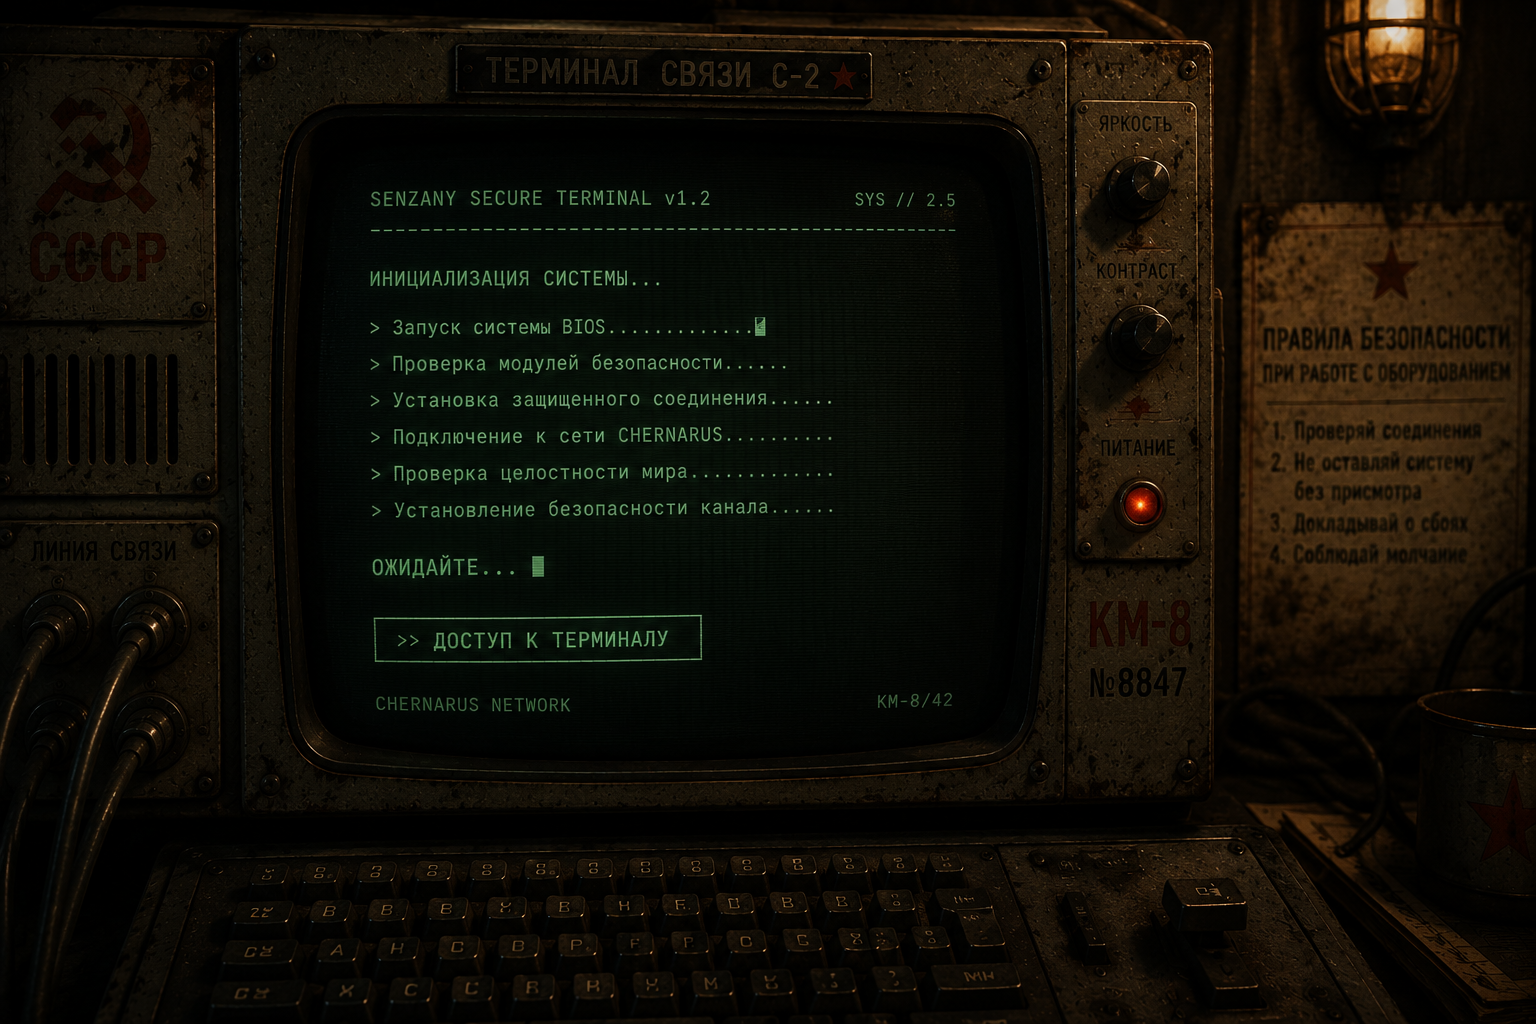
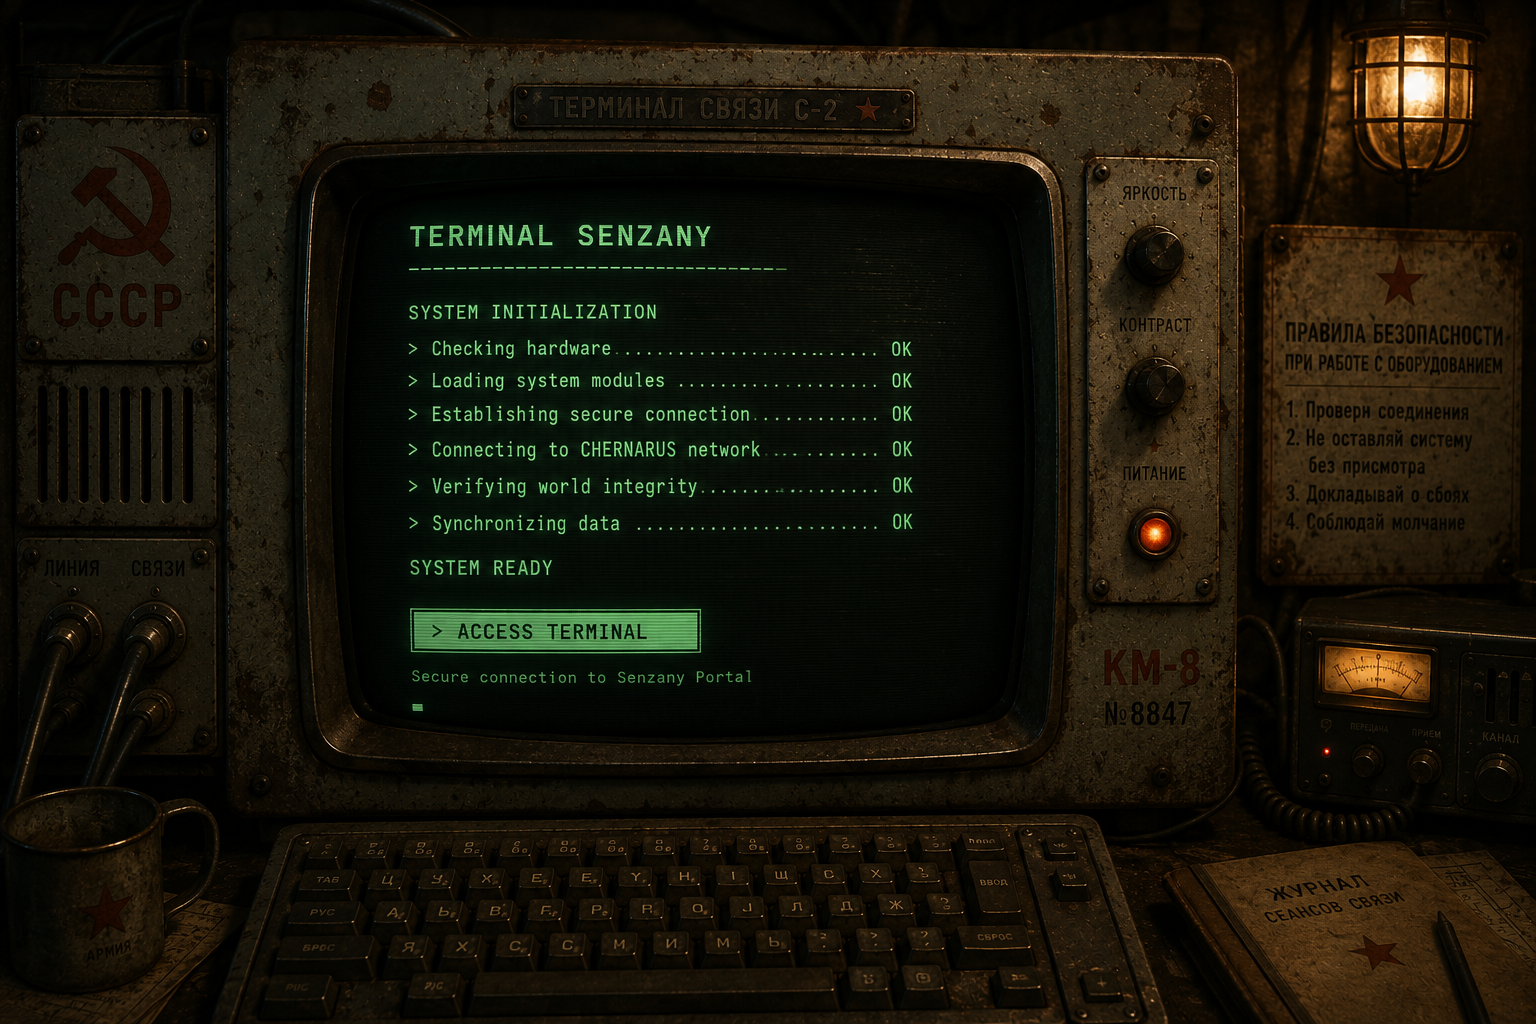
nouvelle page

diff --git a/assets/js/shared/entry-terminal.js b/assets/js/shared/entry-terminal.js
@@ -38,16 +38,16 @@
 
         <div class="entry-terminal__screen-content">
           <header class="entry-terminal__screen-header">
-            <span id="entry-terminal-title">ТЕРМИНАЛ СВЯЗИ СЕНЗАНИ</span>
-            <span>КМ-8 / 42</span>
+            <span id="entry-terminal-title">TERMINAL SENZANY</span>
+            <span>POSTE KM-8 / 42</span>
           </header>
 
-          <p class="entry-terminal__designation">СЕКРЕТНО // ЛИНИЯ ЧЕРНАРУС</p>
+          <p class="entry-terminal__designation">RÉSEAU SÉCURISÉ // LIGNE CHERNARUS</p>
           <div class="entry-terminal__log" aria-live="polite"></div>
 
           <div class="entry-terminal__ready" hidden>
             <p class="entry-terminal__ready-label">
-              <span>СИСТЕМА ГОТОВА</span>
+              <span>SYSTÈME PRÊT</span>
               <i class="entry-terminal__cursor" aria-hidden="true"></i>
             </p>
             <button class="entry-terminal__button" type="button">
@@ -59,14 +59,14 @@
           </div>
 
           <footer class="entry-terminal__screen-footer">
-            <span>СЕТЬ: CHERNARUS</span>
+            <span>RÉSEAU : CHERNARUS</span>
             <span class="entry-terminal__clock">--:--:--</span>
           </footer>
         </div>
 
         <div class="entry-terminal__grant" aria-hidden="true">
-          <span>ДОСТУП РАЗРЕШЕН</span>
-          <small>ACCÈS AUTORISÉ</small>
+          <span>ACCÈS AUTORISÉ</span>
+          <small>BIENVENUE SUR SENZANY</small>
         </div>
       </div>
     </div>`;
@@ -81,11 +81,12 @@
   const clock = terminal.querySelector('.entry-terminal__clock');
 
   const lines = [
-    { ru: 'ПОДАЧА ПИТАНИЯ', fr: 'ALIMENTATION PRINCIPALE' },
-    { ru: 'ПРОВЕРКА ЛАМПОВЫХ МОДУЛЕЙ', fr: 'CONTRÔLE DES MODULES' },
-    { ru: 'НАСТРОЙКА ЧАСТОТЫ 42.7', fr: 'RÉGLAGE DE LA FRÉQUENCE' },
-    { ru: 'СОЕДИНЕНИЕ С СЕТЬЮ CHERNARUS', fr: 'CONNEXION AU RÉSEAU' },
-    { ru: 'ПРОВЕРКА КАНАЛА БЕЗОПАСНОСТИ', fr: 'VÉRIFICATION DU CANAL' }
+    'MISE SOUS TENSION DU TERMINAL',
+    'CONTRÔLE DES MODULES SYSTÈME',
+    'ÉTABLISSEMENT DE LA LIAISON SÉCURISÉE',
+    'CONNEXION AU RÉSEAU CHERNARUS',
+    'VÉRIFICATION DE L’INTÉGRITÉ DU MONDE',
+    'SYNCHRONISATION DES DONNÉES SENZANY'
   ];
 
   const wait = (duration) => new Promise((resolve) => window.setTimeout(resolve, duration));
@@ -100,15 +101,15 @@
     });
   };
 
-  const typeText = async (element, text, speed = 34) => {
+  const typeText = async (element, text, speed = 18) => {
     for (const character of text) {
       element.textContent += character;
-      const naturalPause = character === ' ' ? 18 : Math.floor(Math.random() * 22);
+      const naturalPause = character === ' ' ? 8 : Math.floor(Math.random() * 10);
       await wait(speed + naturalPause);
     }
   };
 
-  const addLine = async ({ ru, fr }) => {
+  const addLine = async (textValue) => {
     const line = document.createElement('div');
     line.className = 'entry-terminal__line';
     line.innerHTML = `
@@ -116,36 +117,32 @@
         <span class="entry-terminal__prompt">&gt;</span>
         <span class="entry-terminal__typed"></span>
         <span class="entry-terminal__working">...</span>
-        <strong class="entry-terminal__ok">ГОТОВО</strong>
-      </div>
-      <small class="entry-terminal__translation"></small>`;
+        <strong class="entry-terminal__ok">OK</strong>
+      </div>`;
 
     log.appendChild(line);
 
     const typed = line.querySelector('.entry-terminal__typed');
     const working = line.querySelector('.entry-terminal__working');
     const ok = line.querySelector('.entry-terminal__ok');
-    const translation = line.querySelector('.entry-terminal__translation');
 
-    await typeText(typed, ru, 31);
+    await typeText(typed, textValue, 18);
     working.classList.add('is-active');
-    await wait(430 + Math.floor(Math.random() * 260));
+    await wait(240 + Math.floor(Math.random() * 150));
     working.classList.remove('is-active');
     working.hidden = true;
     ok.classList.add('is-visible');
-    translation.textContent = fr;
-    translation.classList.add('is-visible');
-    await wait(380);
+    await wait(210);
   };
 
   const run = async () => {
-    await wait(1050);
+    await wait(780);
 
     for (const line of lines) {
       await addLine(line);
     }
 
-    await wait(650);
+    await wait(420);
     ready.hidden = false;
     window.setTimeout(() => button.focus({ preventScroll: true }), 320);
   };

diff --git a/assets/css/shared/entry-terminal.css b/assets/css/shared/entry-terminal.css
@@ -76,10 +76,10 @@ html.senzany-terminal-active body {
 .entry-terminal__screen-wrap {
   position: absolute;
   z-index: 5;
-  left: 18.55%;
-  top: 13.2%;
-  width: 49.3%;
-  height: 63.3%;
+  left: 20.25%;
+  top: 15.15%;
+  width: 47.35%;
+  height: 59.15%;
   overflow: hidden;
   border-radius: 9% / 7%;
   transform: perspective(1100px) rotateY(-0.2deg);
@@ -127,7 +127,7 @@ html.senzany-terminal-active body {
   z-index: 2;
   display: flex;
   flex-direction: column;
-  padding: 7.3% 9% 6%;
+  padding: 7.2% 8.2% 5.2%;
   text-shadow: 0 0 7px rgba(131,185,130,.28);
 }
 
@@ -138,22 +138,22 @@ html.senzany-terminal-active body {
   padding-bottom: 2.2%;
   border-bottom: 1px dashed rgba(131,185,130,.34);
   color: var(--entry-phosphor-bright);
-  font-size: clamp(7px, 1.14vw, 17px);
-  letter-spacing: .08em;
+  font-size: clamp(8px, 1.35vw, 20px);
+  letter-spacing: .12em;
   white-space: nowrap;
 }
 
 .entry-terminal__designation {
-  margin: 4.5% 0 3.6%;
+  margin: 3.8% 0 3.2%;
   color: rgba(183,221,177,.75);
-  font-size: clamp(6px, .95vw, 14px);
+  font-size: clamp(6px, .82vw, 12px);
   letter-spacing: .1em;
 }
 
 .entry-terminal__log {
   display: grid;
-  gap: clamp(3px, .78vw, 12px);
-  min-height: 48%;
+  gap: clamp(3px, .56vw, 9px);
+  min-height: 51%;
 }
 
 .entry-terminal__line {
@@ -166,7 +166,7 @@ html.senzany-terminal-active body {
   display: flex;
   align-items: baseline;
   min-width: 0;
-  font-size: clamp(6px, .98vw, 15px);
+  font-size: clamp(6px, .84vw, 13px);
   line-height: 1.25;
   white-space: nowrap;
 }

diff --git a/index.html b/index.html
@@ -8,7 +8,7 @@
 <title>SENZANY — Portail officiel DayZ PVE</title>
 <link href="assets/css/shared/navigation-unified-v1.css?v=1.0.0" rel="stylesheet"/>
 <link href="assets/css/pages/accueil.css?v=2.7" rel="stylesheet"/>
-<link href="assets/css/shared/entry-terminal.css?v=2.0.0" rel="stylesheet"/>
+<link href="assets/css/shared/entry-terminal.css?v=3.0.0" rel="stylesheet"/>
 <script>
 (() => {
   const params = new URLSearchParams(window.location.search);
@@ -195,6 +195,6 @@
 <script defer="" src="assets/js/app.js"></script>
 <script defer="" src="assets/js/api.js"></script>
 <script defer="" src="assets/js/pages/accueil.js?v=2.7"></script>
-<script defer="" src="assets/js/shared/entry-terminal.js?v=2.0.0"></script>
+<script defer="" src="assets/js/shared/entry-terminal.js?v=3.0.0"></script>
 </body>
 </html>